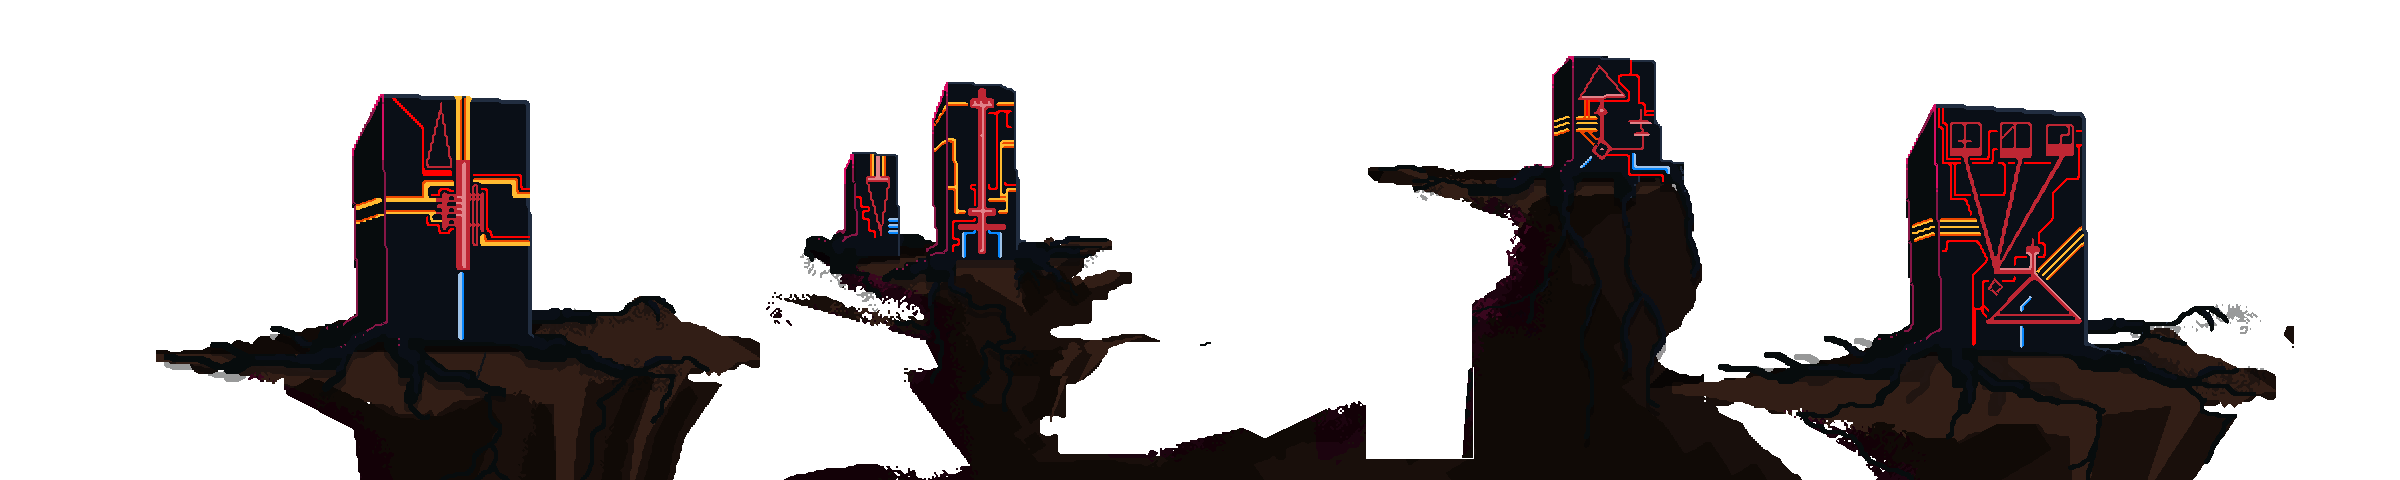
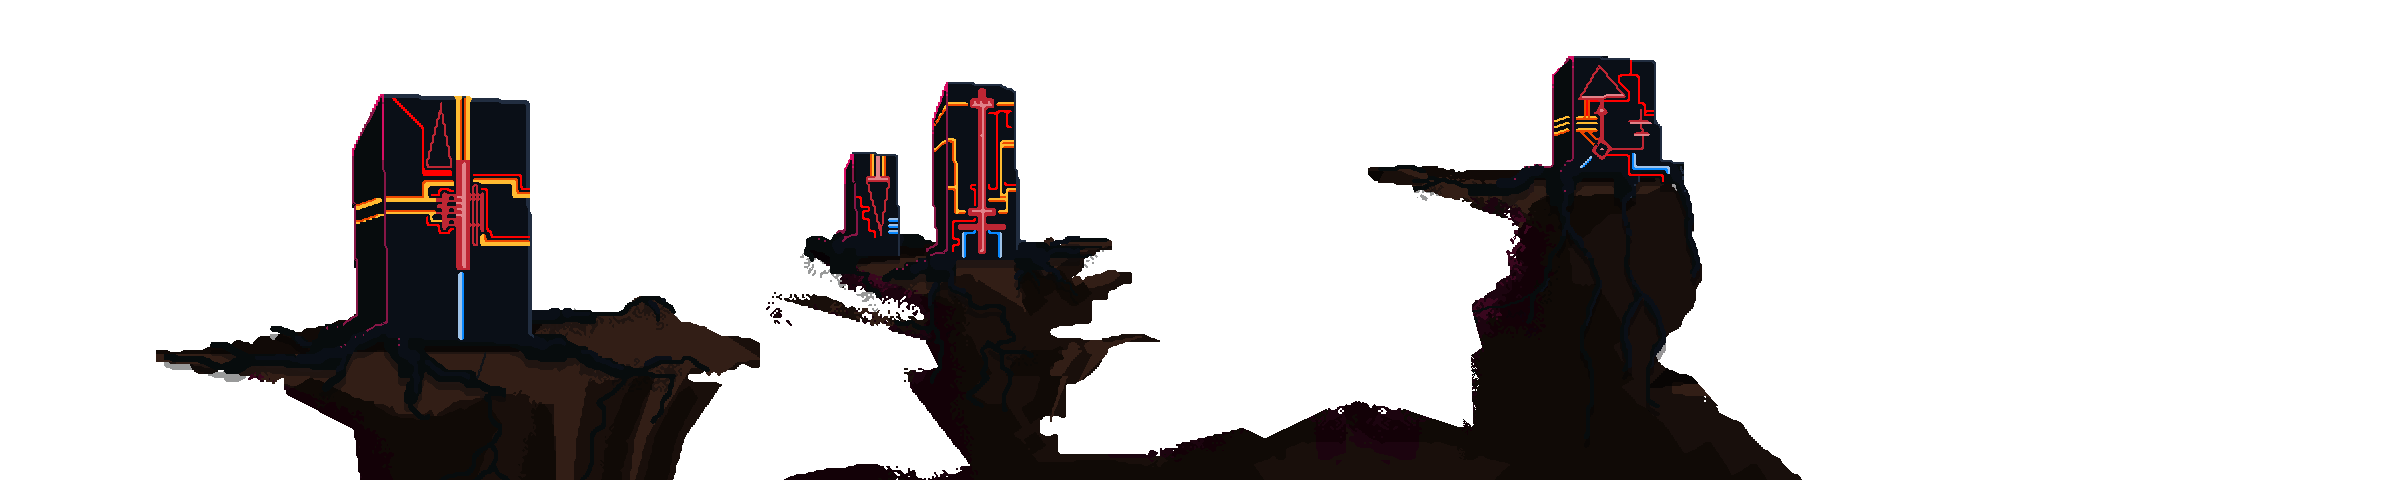
intro cinematics basics

Changed region(s): [[0.6875, 0.2188, 0.9688, 1.0], [0.5625, 0.8438, 0.625, 0.9688]]

diff --git a/src/Cinematics/IntroCinematic.py b/src/Cinematics/IntroCinematic.py
@@ -91,6 +91,7 @@ class IntroCinematic():
         PAR_TER_FAR = 7
         PAR_TER_MID = 8
         PAR_TER_NEAR = 9
+        PAR_TER_NEAREST = 10
 
         #FOREGROUND_FG = 
 
@@ -108,12 +109,17 @@ class IntroCinematic():
                     for i in range (0,3): 
                         plane.filter_color[i] = max(0.0,plane.filter_color[i] - fadein)
 
+
+                if id == 0:
+                    plane.sx *= 1.0003
                 if id == PAR_CLOUDS:
-                    plane.x -= 0.01
+                    plane.x -= 0.004
                     plane.y = sin(plane._t*0.08)*0.04
+                    plane.sx *= 1.00005
                 if id == PAR_CLOUDS2:
-                    plane.x -= 0.008
+                    plane.x -= 0.002
                     plane.y = cos(plane._t*0.04)*0.06
+                    plane.sx *= 1.00004
 
                 if id == PAR_MTNS:
                     plane.x -= 0.0008
@@ -130,6 +136,8 @@ class IntroCinematic():
                     plane.y = cos(plane._t*0.2)*0.02
                 if id == PAR_TER_NEAR:
                     plane.x -= 0.0064
+                if id == PAR_TER_NEAREST:
+                    plane.x -= 0.0098
 
                 plane.x -= 0.008
 
@@ -159,7 +167,9 @@ class IntroCinematic():
                 if id == PAR_TER_MID:
                     plane.x += 15.0
                 if id == PAR_TER_NEAR:
-                    plane.x += 20.0
+                    plane.x += 23.0
+                if id == PAR_TER_NEAREST:
+                    plane.x += 28.0
 
             def default_initializer(plane):
                 set_defaults(plane)
@@ -178,7 +188,8 @@ class IntroCinematic():
             (BGL.assets.get('KT-forest/texture/EarthLayer-parallax_clouds2'), BGL.blendmode.alpha_over ),
             (BGL.assets.get('KT-forest/texture/EarthLayer-ter3'), BGL.blendmode.alpha_over ),
             (BGL.assets.get('KT-forest/texture/EarthLayer-ter2'), BGL.blendmode.alpha_over ),
-            (BGL.assets.get('KT-forest/texture/EarthLayer-ter1'), BGL.blendmode.alpha_over )
+            (BGL.assets.get('KT-forest/texture/EarthLayer-ter1'), BGL.blendmode.alpha_over ),
+            (BGL.assets.get('KT-forest/texture/EarthLayer-ter0'), BGL.blendmode.alpha_over )
         ]
 
         self.cinematic_planes = []
